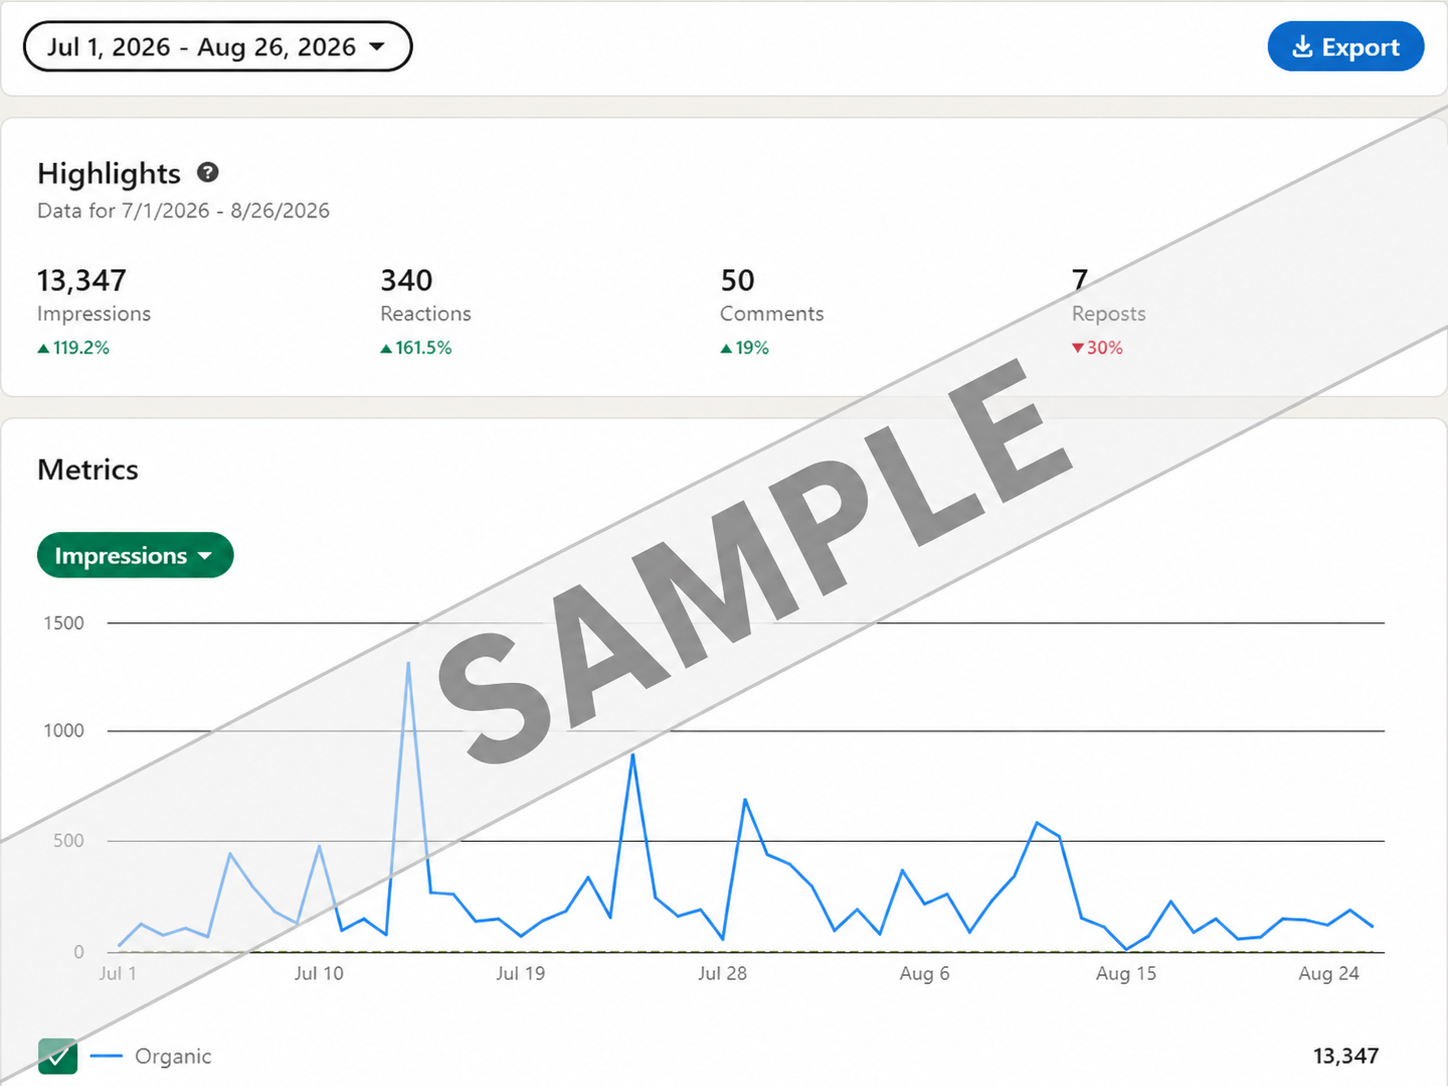
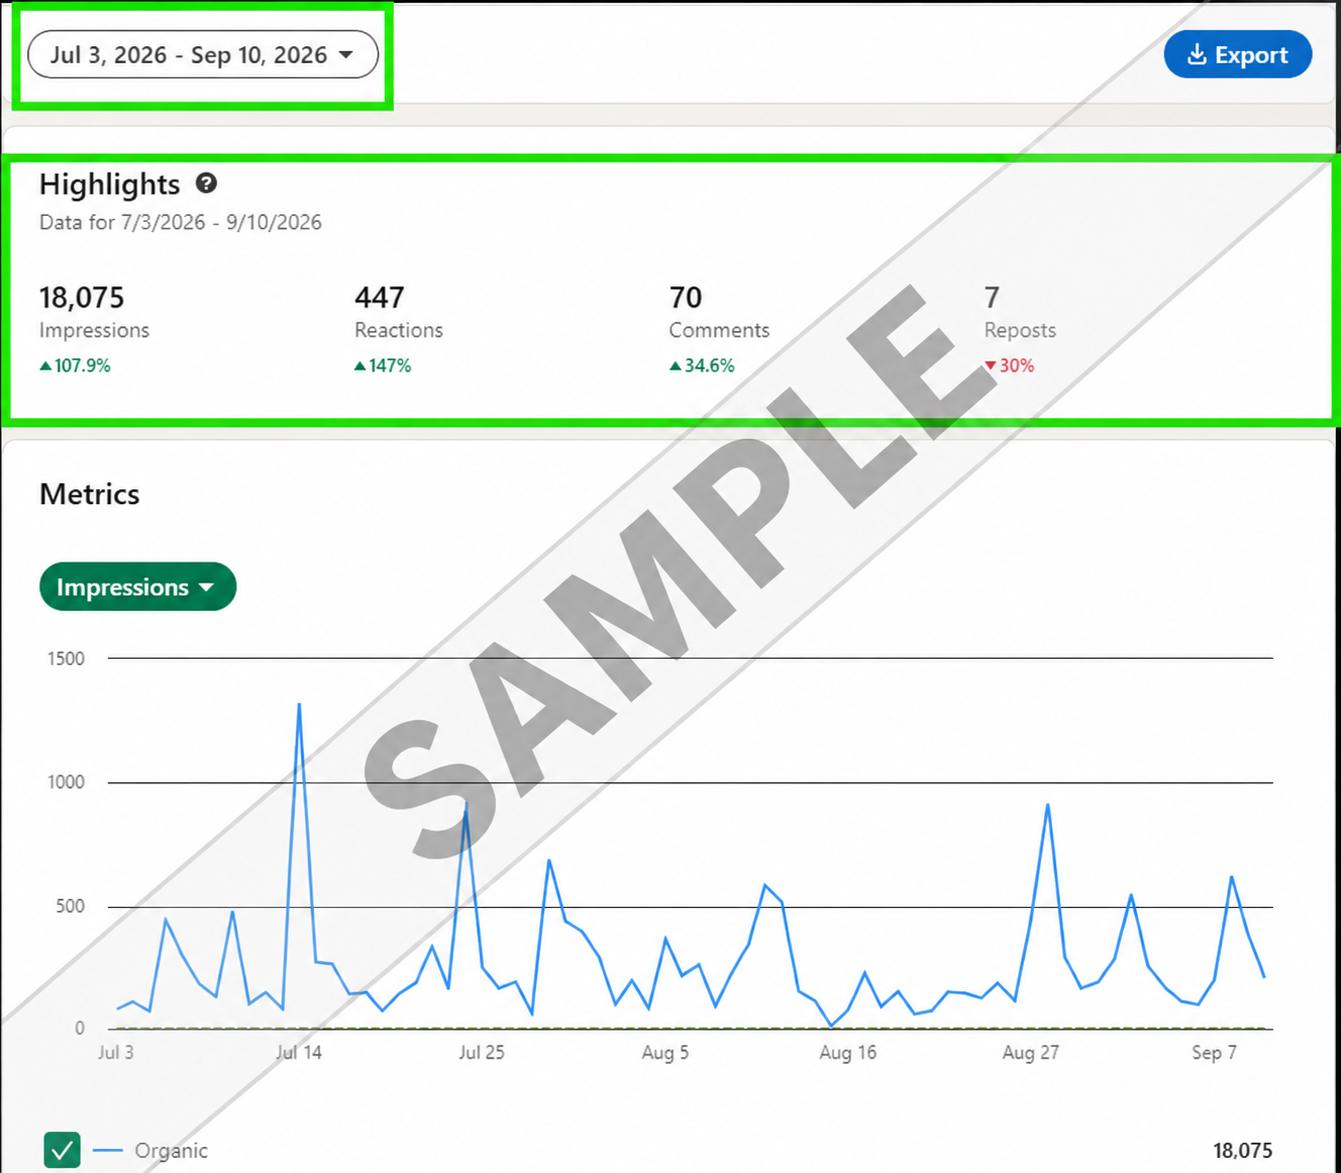
Update portfolio

diff --git a/devziv.html b/devziv.html
@@ -64,7 +64,7 @@
 
         <div>
           <span class="case-detail-label">PERIOD</span>
-          <strong>Jul 1 — Aug 26, 2026</strong>
+          <strong>Jul 3 — Sept 10, 2026</strong>
         </div>
 
       </div>
@@ -156,22 +156,22 @@
       <div class="campaign-results">
 
     <div class="campaign-result">
-      <strong>150</strong>
-      <span>New followers in 57 days</span>
+      <strong>336</strong>
+      <span>New followers in 70 days</span>
     </div>
 
     <div class="campaign-result">
-      <strong>13,347</strong>
-      <span>Impressions in 57 days</span>
+      <strong>18,075</strong>
+      <span>Impressions in 70 days</span>
     </div>
 
     <div class="campaign-result">
-      <strong>340</strong>
+      <strong>447</strong>
       <span>Reactions</span>
     </div>
 
     <div class="campaign-result">
-      <strong>1,075</strong>
+      <strong>1,406</strong>
       <span>Page views</span>
     </div>
 
@@ -181,7 +181,7 @@
   <div class="platform-results">
 
     <div>
-      <strong>50</strong>
+      <strong>70</strong>
       <span>Comments</span>
     </div>
 
@@ -191,12 +191,12 @@
     </div>
 
     <div>
-      <strong>386</strong>
+      <strong>526</strong>
       <span>Unique visitors</span>
     </div>
 
     <div>
-      <strong>368</strong>
+      <strong>400+</strong>
       <span>Page searches</span>
     </div>
 

diff --git a/index.html b/index.html
@@ -225,12 +225,12 @@
           
           <div class="case-results">
            <div class="case-result">
-             <strong>150</strong>
-             <span>New followers gained in 57 days</span>
+             <strong>336</strong>
+             <span>New followers gained in 70 days</span>
            </div>
 
            <div class="case-result">
-             <strong>117.6%</strong>
+             <strong>121%</strong>
              <span>Increase in LinkedIn page views</span>
            </div>
         </div>
